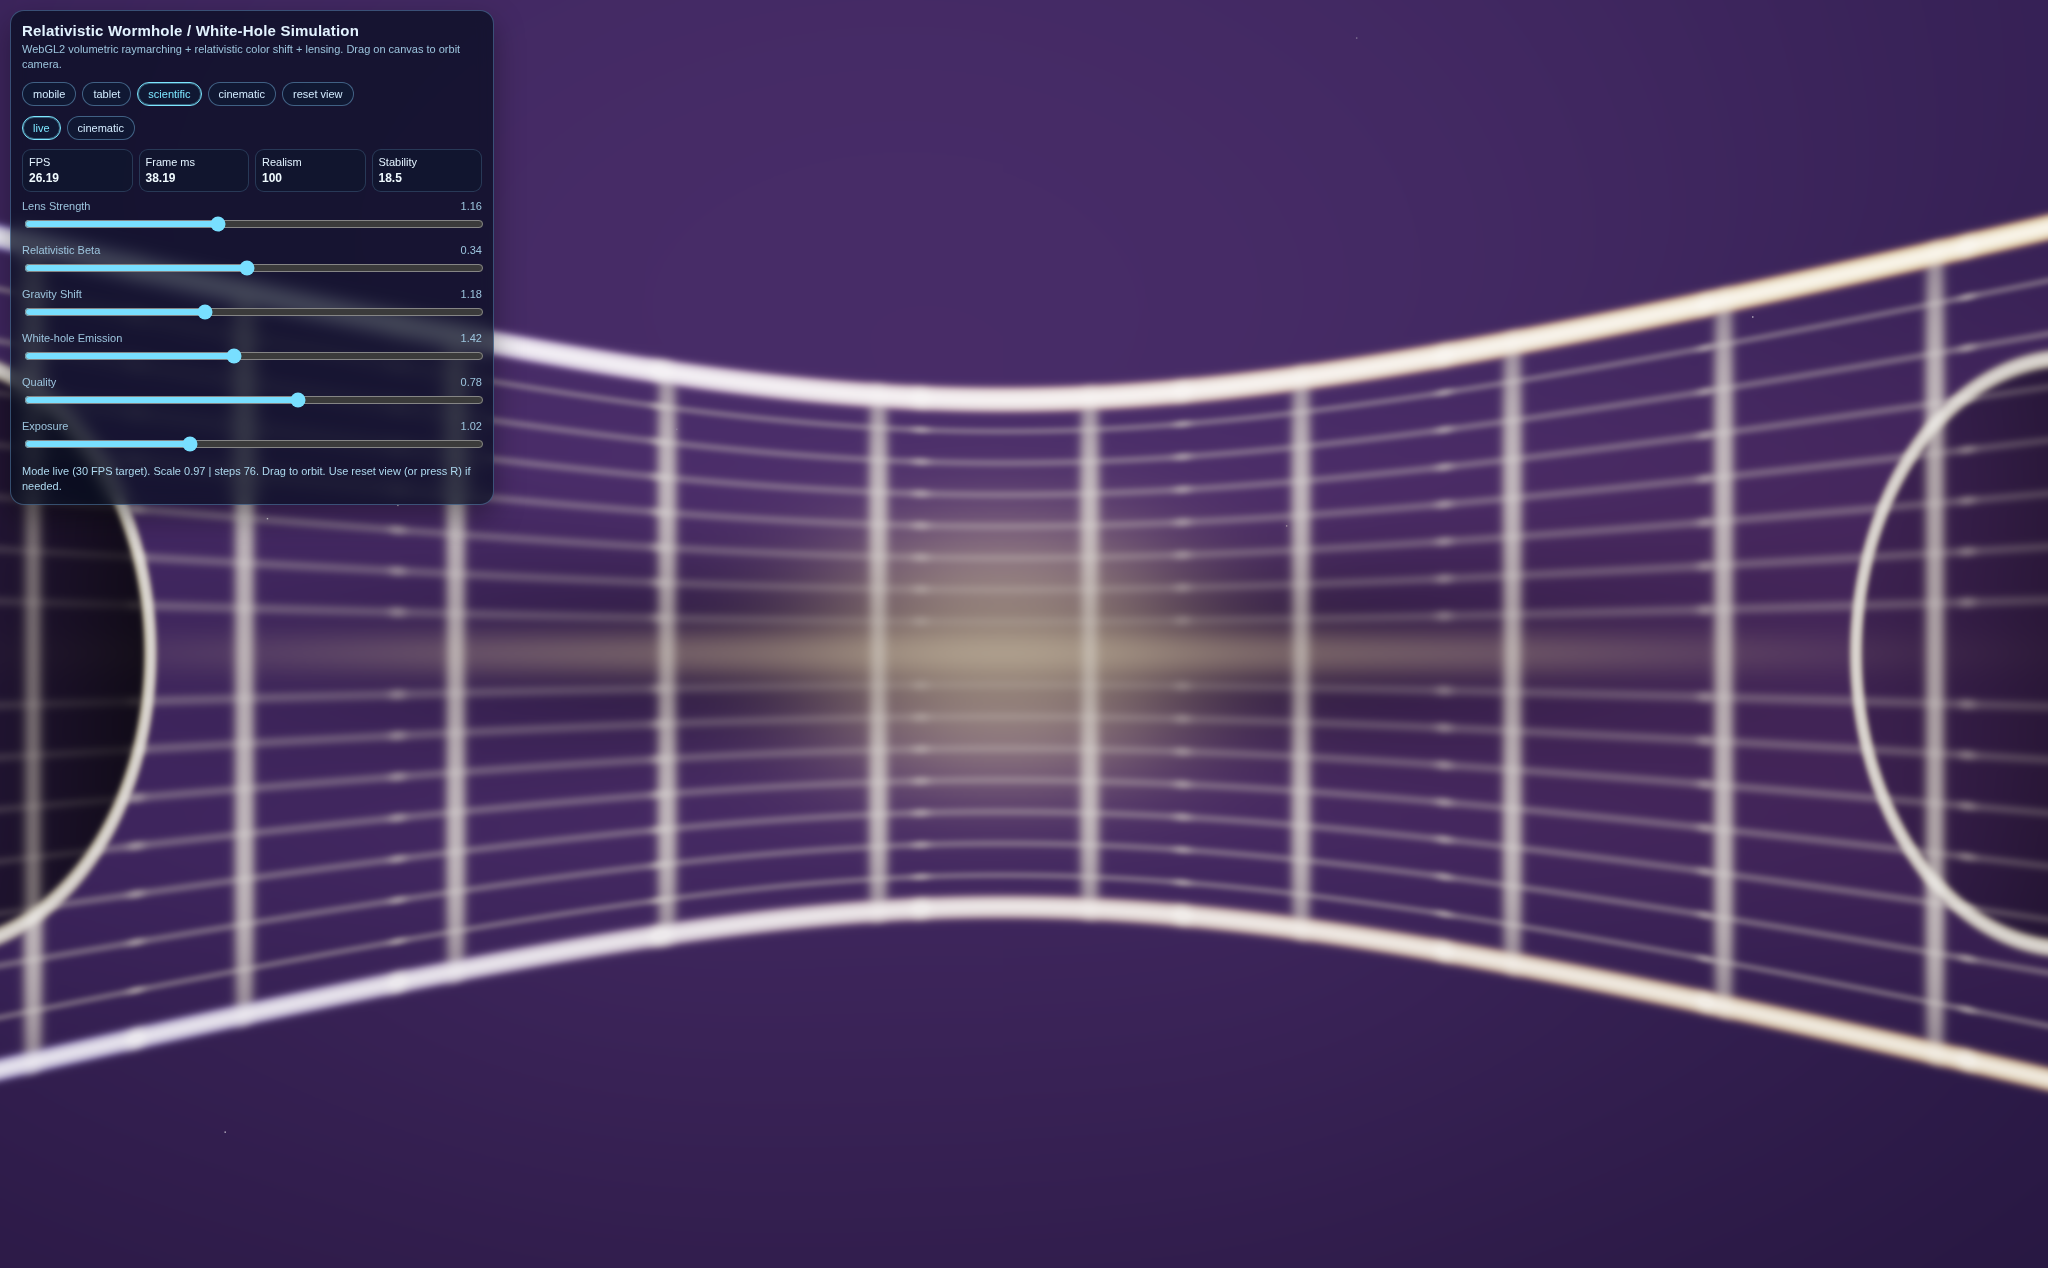
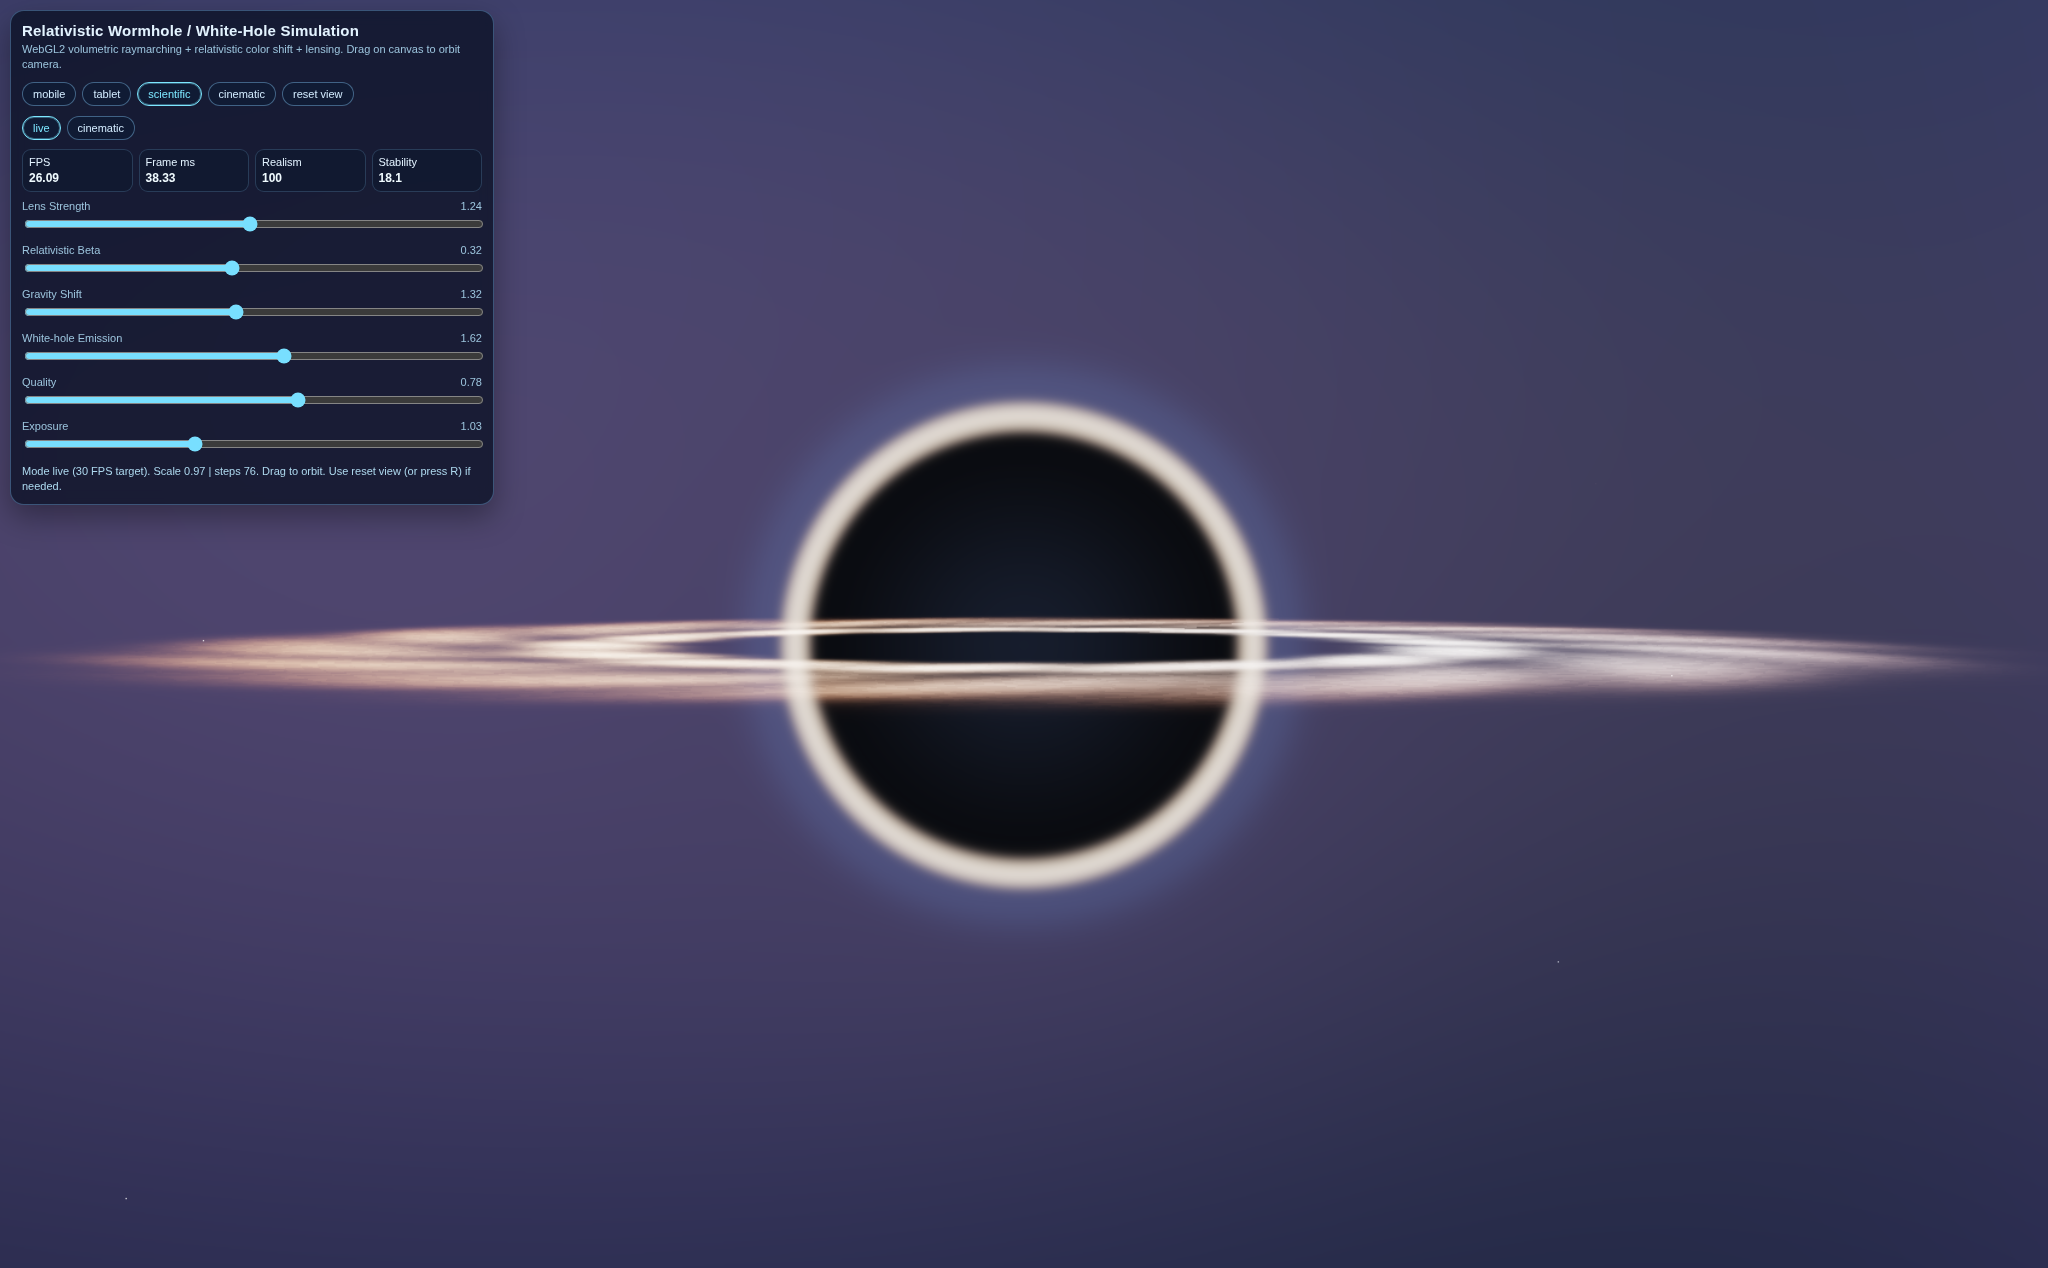
feat(render): refine cinematic wormhole look with cleaner lensing and accretion detail

diff --git a/src/realtime-webgl/index.html b/src/realtime-webgl/index.html
@@ -186,8 +186,8 @@
   };
 
   const defaultView = {
-    camYaw: 0.22,
-    camPitch: 0.28,
+    camYaw: 0.24,
+    camPitch: 0.10,
   };
 
   const state = {
@@ -232,10 +232,10 @@
 
   function setPreset(name) {
     const presets = {
-      mobile:     { lensStrength: 1.00, beta: 0.22, gravShift: 0.90, emission: 1.00, quality: 0.55, exposure: 0.98 },
-      tablet:     { lensStrength: 1.10, beta: 0.28, gravShift: 1.02, emission: 1.18, quality: 0.72, exposure: 1.02 },
-      scientific: { lensStrength: 1.16, beta: 0.34, gravShift: 1.18, emission: 1.42, quality: 0.78, exposure: 1.02 },
-      cinematic:  { lensStrength: 1.36, beta: 0.42, gravShift: 1.36, emission: 1.88, quality: 0.96, exposure: 1.14 },
+      mobile:     { lensStrength: 0.98, beta: 0.20, gravShift: 0.92, emission: 0.98, quality: 0.55, exposure: 0.98 },
+      tablet:     { lensStrength: 1.10, beta: 0.26, gravShift: 1.08, emission: 1.24, quality: 0.72, exposure: 1.02 },
+      scientific: { lensStrength: 1.24, beta: 0.32, gravShift: 1.32, emission: 1.62, quality: 0.78, exposure: 1.03 },
+      cinematic:  { lensStrength: 1.42, beta: 0.44, gravShift: 1.52, emission: 2.06, quality: 0.96, exposure: 1.12 },
     };
     const p = presets[name] || presets.scientific;
     state.preset = name;
@@ -524,18 +524,23 @@
 
     vec3 background(vec3 rd) {
       float h = clamp(rd.y * 0.5 + 0.5, 0.0, 1.0);
-      vec3 base = mix(vec3(0.012, 0.004, 0.028), vec3(0.050, 0.026, 0.098), h);
+      vec3 base = mix(vec3(0.003, 0.004, 0.016), vec3(0.026, 0.052, 0.120), h);
 
-      float dustBand = exp(-pow(rd.y * 2.0, 2.0));
-      float dust = 0.5 + 0.5 * sin(rd.x * 8.0 + rd.z * 6.5 + uTime * 0.018);
-      base += vec3(0.060, 0.032, 0.084) * dustBand * dust * 0.58;
+      float nebBand = exp(-pow(rd.y * 1.7, 2.0));
+      float nebFlow = 0.5 + 0.5 * sin(rd.x * 7.4 + rd.z * 6.2 + uTime * 0.032);
+      base += vec3(0.050, 0.028, 0.092) * nebBand * nebFlow * 0.72;
 
-      vec3 id = floor(rd * 360.0);
-      vec3 fr = fract(rd * 360.0) - 0.5;
-      float star = smoothstep(0.09, 0.0, length(fr)) * step(0.9975, hash13(id));
-      vec3 starCol = mix(vec3(0.62, 0.78, 1.00), vec3(1.00, 0.85, 0.58), hash13(id + 8.7));
+      float galBand = exp(-pow(rd.y * 3.6, 2.0));
+      float galHue = 0.5 + 0.5 * sin(rd.x * 4.0 + rd.z * 2.2 + uTime * 0.012);
+      base += mix(vec3(0.020, 0.015, 0.040), vec3(0.080, 0.040, 0.024), galHue) * galBand * 0.42;
 
-      return base + starCol * star * 8.8;
+      vec3 id = floor(rd * 440.0);
+      vec3 fr = fract(rd * 440.0) - 0.5;
+      float star = smoothstep(0.085, 0.0, length(fr)) * step(0.99815, hash13(id));
+      float twinkle = 0.65 + 0.35 * sin(uTime * 0.75 + hash13(id + 13.0) * 6.2831);
+      vec3 starCol = mix(vec3(0.62, 0.80, 1.12), vec3(1.24, 0.92, 0.62), hash13(id + 7.1));
+
+      return base + starCol * star * (9.4 * twinkle);
     }
 
     mat2 rot2(float a) {
@@ -544,98 +549,91 @@
       return mat2(c, -s, s, c);
     }
 
-    float tunnelRadius(float x) {
-      float s = abs(x) * 1.85;
-      return 0.11 + 0.10 * sqrt(1.0 + s * s);
+    float tunnelRadius(float y) {
+      float a = abs(y);
+      float flare = 1.0 - exp(-a * 1.35);
+      return mix(0.30, 0.88, flare);
     }
 
-    float tunnelRadiusDx(float x) {
-      float e = 0.001;
-      return (tunnelRadius(x + e) - tunnelRadius(x - e)) / (2.0 * e);
+    vec3 lensSample(vec3 ro, vec3 rd) {
+      float impact = length(cross(ro, rd));
+      float bend = uLensStrength * (0.10 + 0.15 * uGravShift) / (impact * impact + 0.16);
+      bend = clamp(bend, 0.0, 0.62);
+      vec3 warped = normalize(mix(rd, normalize(-ro), bend));
+      return background(warped);
     }
 
-    vec3 composeWormhole(mat3 cam, vec2 uv, int raySteps) {
+    vec3 composeWormhole(vec3 ro, mat3 cam, vec2 uv, int raySteps) {
       float mode = uRenderMode;
       float t = uTime;
 
-      vec2 p = uv;
-      p.x += sin(uCamAngles.x) * 0.075;
-      p.y += sin(uCamAngles.y) * 0.055;
+      vec3 rd = normalize(cam * vec3(uv, 1.85));
+      vec3 color = lensSample(ro, rd);
 
-      float x = p.x * 1.45;
-      float y = p.y * 1.05;
-      float ay = abs(y);
+      float tClose = max(0.0, -dot(ro, rd));
+      vec3 pClose = ro + rd * tClose;
+      float b = length(pClose);
 
-      float r = tunnelRadius(x);
-      float sd = ay - r;
-      float drdx = tunnelRadiusDx(x);
-      vec2 n = normalize(vec2(-drdx, sign(y == 0.0 ? 1.0 : y)));
-      vec2 ldir = normalize(vec2(-0.32, 0.95));
-      float diff = clamp(dot(n, ldir), 0.0, 1.0);
+      float shadowR = mix(0.44, 0.40, mode) * (0.82 + 0.32 * uGravShift);
+      float shadow = 1.0 - smoothstep(shadowR, shadowR + 0.095, b);
+      float photonRing = exp(-pow((b - (shadowR + 0.065)) / 0.030, 2.0));
+      float haloRing = exp(-pow((b - (shadowR + 0.14)) / 0.080, 2.0));
+      color *= (1.0 - 0.985 * shadow);
+      color += vec3(1.36, 1.12, 0.84) * photonRing * (0.12 + 0.20 * uEmission);
+      color += vec3(0.20, 0.44, 0.92) * haloRing * (0.04 + 0.07 * mode);
 
-      float shellW = mix(0.0065, 0.0048, mode);
-      float shell = exp(-pow(sd / shellW, 2.0));
-      float inside = 1.0 - smoothstep(0.0, 0.016, sd);
+      if (abs(rd.y) > 0.00045) {
+        float tDisk = -ro.y / rd.y;
+        if (tDisk > 0.0) {
+          vec3 pd = ro + rd * tDisk;
+          float r = length(pd.xz);
+          float inner = mix(0.60, 0.56, mode);
+          float outer = 3.20;
+          float ringA = exp(-pow((r - 1.16) / 0.14, 2.0));
+          float ringB = exp(-pow((r - 1.80) / 0.34, 2.0));
+          float envelope = smoothstep(inner, inner + 0.12, r) * (1.0 - smoothstep(outer - 0.22, outer, r));
 
-      float lineDetail = mix(1.0, float(raySteps) / 98.0, mode);
-      float merPhase = (x * mix(10.5, 16.5, mode) - t * 0.55) * lineDetail;
-      float meridian = exp(-pow(sin(merPhase) / 0.11, 2.0));
+          float az = atan(pd.z, pd.x);
+          float turbulence = 0.72 + 0.28 * sin(az * 13.5 - t * 1.65 + r * 7.2);
+          float streak = 0.68 + 0.32 * sin(az * 21.0 + r * 9.0 - t * 2.1);
+          float grain = hash13(vec3(floor(pd.x * 28.0), floor(pd.z * 28.0), floor(t * 1.4)));
+          vec3 tangent = normalize(vec3(-pd.z, 0.0, pd.x));
+          float dop = clamp(dot(tangent, -rd), -1.0, 1.0);
+          float shift = 0.5 + 0.5 * dop;
 
-      float latAccum = 0.0;
-      for (int i = 1; i <= 8; i++) {
-        float f = float(i) / 8.0;
-        float yi = r * f;
-        float w = mix(0.0052, 0.0032, f);
-        latAccum += exp(-pow((ay - yi) / w, 2.0));
+          vec3 hot = vec3(1.94, 1.62, 1.24);
+          vec3 warm = vec3(1.52, 0.74, 0.30);
+          vec3 cool = vec3(0.60, 0.92, 1.52);
+          vec3 diskCol = mix(warm, hot, smoothstep(2.5, 0.75, r));
+          diskCol = mix(diskCol * 0.74, mix(cool, vec3(1.75, 0.78, 0.40), shift), min(1.0, uBeta * 1.05));
+
+          float gravFade = exp(-uGravShift * 0.10 / max(r, 0.45));
+          float diskI = (1.40 * ringA + 0.58 * ringB) * envelope * turbulence * gravFade;
+          diskI *= (0.82 + 0.26 * streak) * (0.88 + 0.22 * grain);
+          diskI *= 0.24 + 0.38 * uEmission;
+          color += diskCol * diskI;
+        }
       }
-      float latGrid = clamp(latAccum * 0.18, 0.0, 1.0) * inside;
-      float lonRibs = exp(-pow(sin((x * mix(13.0, 19.0, mode) - t * 0.46) * lineDetail) / 0.13, 2.0));
-      float lonMask = inside * exp(-pow(ay / max(0.0001, r * 1.02), 6.0));
-      float mesh = clamp(shell * (0.55 + 0.45 * meridian) + latGrid * (0.45 + 0.55 * meridian) + lonRibs * lonMask * 0.42, 0.0, 1.0);
 
-      vec3 warm = vec3(1.62, 1.02, 0.40);
-      vec3 cool = vec3(0.58, 0.54, 1.38);
-      float sideMix = smoothstep(-1.2, 1.2, x + 0.16 * sin(t * 0.08));
-      vec3 shellCol = mix(cool, warm, sideMix) * (0.52 + 0.72 * diff);
+      vec3 rdGhost = normalize(mix(rd, normalize(-pClose), 0.38));
+      if (abs(rdGhost.y) > 0.00045) {
+        float tGhost = -ro.y / rdGhost.y;
+        if (tGhost > 0.0) {
+          vec3 pg = ro + rdGhost * tGhost;
+          float rg = length(pg.xz);
+          float ringG = exp(-pow((rg - 1.35) / 0.20, 2.0));
+          float envG = smoothstep(0.68, 0.86, rg) * (1.0 - smoothstep(2.40, 2.90, rg));
+          float lensMask = exp(-pow((b - (shadowR + 0.06)) / 0.16, 2.0));
+          float glowG = ringG * envG * lensMask * (0.12 + 0.16 * uEmission);
+          color += vec3(1.12, 0.94, 0.72) * glowG;
+        }
+      }
 
-      float throat = exp(-pow(x / 0.19, 2.0)) * exp(-pow(ay / 0.08, 2.0));
-      float beam = exp(-pow(ay / 0.018, 2.0)) * exp(-pow(x / 0.62, 2.0));
-      vec3 core = vec3(1.95, 1.62, 1.02) * (0.22 * throat + 0.12 * beam);
-      core *= mix(1.0, 1.18, mode);
+      float throatGlow = exp(-pow(b / max(0.18, shadowR * 0.72), 2.0));
+      color += vec3(0.08, 0.12, 0.22) * throatGlow * (0.12 + 0.10 * mode);
 
-      vec2 ml = vec2(-1.22, 0.0);
-      vec2 mr = vec2( 1.22, 0.0);
-      float mouthR = mix(0.24, 0.285, mode);
-      float mouthL = 1.0 - smoothstep(mouthR, mouthR + 0.008, length(vec2(x, y) - ml));
-      float mouthRgt = 1.0 - smoothstep(mouthR, mouthR + 0.008, length(vec2(x, y) - mr));
-      mouthL *= smoothstep(-1.65, -0.78, x);
-      mouthRgt *= smoothstep(0.78, 1.65, x);
-      float mouths = max(mouthL, mouthRgt);
-
-      float lens = uLensStrength * 0.08 / (abs(sd) + 0.06);
-      vec2 uvWarp = uv;
-      uvWarp.x += sign(x) * lens * exp(-ay * 2.2) * 0.07;
-      uvWarp.y += sin(x * 8.8 + t * 0.56) * lens * 0.010;
-      vec3 bg = background(normalize(cam * vec3(uvWarp, 1.75)));
-
-      vec3 color = bg;
-      color += shellCol * shell * (0.42 + 0.34 * uEmission);
-      color += vec3(1.00, 0.92, 0.80) * mesh * mix(0.78, 0.95, mode);
-      color += core;
-
-      float interior = exp(-pow(ay / max(0.05, r * 0.75), 2.7));
-      color += mix(vec3(0.045, 0.018, 0.085), vec3(0.12, 0.035, 0.085), sideMix) * interior * 0.16 * inside;
-
-      float cavity = exp(-pow(ay / max(0.04, r * 0.40), 2.4)) * exp(-pow(x / 0.80, 2.0));
-      color *= (1.0 - 0.62 * cavity);
-      color *= (1.0 - 0.995 * mouths);
-
-      float ringL = exp(-pow((length(vec2(x, y) - ml) - mouthR * 1.02) / 0.0055, 2.0));
-      float ringR = exp(-pow((length(vec2(x, y) - mr) - mouthR * 1.02) / 0.0055, 2.0));
-      color += vec3(0.98, 0.90, 0.72) * (ringL + ringR) * 0.58;
-
-      float seam = exp(-pow((ay - r) / 0.022, 2.0)) * exp(-pow(x / 1.10, 2.0));
-      color += vec3(0.12, 0.32, 0.96) * seam * 0.06 * mode;
+      float vignette = smoothstep(1.40, 0.35, length(uv));
+      color *= mix(0.92, 1.08, vignette);
 
       return color;
     }
@@ -644,23 +642,23 @@
       vec2 frag = gl_FragCoord.xy;
       vec2 uv = (frag - 0.5 * uResolution) / uResolution.y;
 
-      float yaw = uCamAngles.x + uTime * mix(0.042, 0.022, uRenderMode);
-      float pitch = clamp(uCamAngles.y, -1.0, 1.0);
-      float radius = mix(8.4, 7.0, uRenderMode);
-      float height = mix(2.2, 3.2, uRenderMode);
-      vec3 ro = vec3(cos(yaw) * radius, sin(pitch) * height, sin(yaw) * radius);
-      mat3 cam = cameraBasis(ro, vec3(0.0));
+      float yaw = uCamAngles.x + uTime * mix(0.016, 0.010, uRenderMode);
+      float pitch = clamp(uCamAngles.y, -0.95, 0.95);
+      float radius = mix(6.3, 5.8, uRenderMode);
+      float height = mix(0.95, 0.72, uRenderMode);
+      vec3 ro = vec3(cos(yaw) * radius, 0.18 + sin(pitch) * height, sin(yaw) * radius);
+      mat3 cam = cameraBasis(ro, vec3(0.0, 0.03, 0.0));
 
-      vec3 color = composeWormhole(cam, uv, uRaySteps);
+      vec3 color = composeWormhole(ro, cam, uv, uRaySteps);
 
       if (uQuality > 0.96 || uRenderMode > 0.5) {
         vec2 j = vec2(0.45, -0.30) / uResolution;
-        vec3 color2 = composeWormhole(cam, uv + j, uRaySteps);
-        color = mix(color, color2, 0.30);
+        vec3 color2 = composeWormhole(ro, cam, uv + j, uRaySteps);
+        color = mix(color, color2, 0.12);
         if (uRenderMode > 0.5) {
           vec2 j2 = vec2(-0.35, 0.22) / uResolution;
-          vec3 color3 = composeWormhole(cam, uv + j2, uRaySteps);
-          color = mix(color, color3, 0.25);
+          vec3 color3 = composeWormhole(ro, cam, uv + j2, uRaySteps);
+          color = mix(color, color3, 0.10);
         }
       }
 
